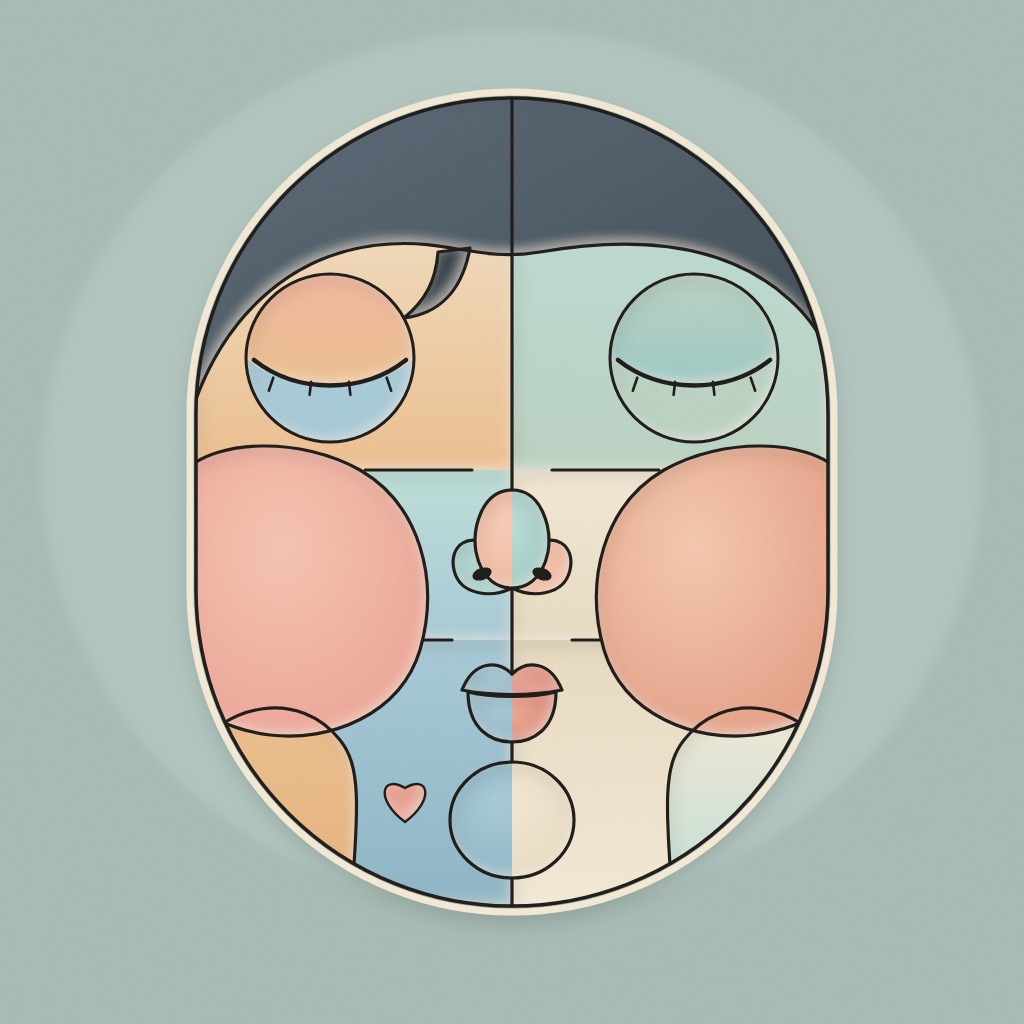
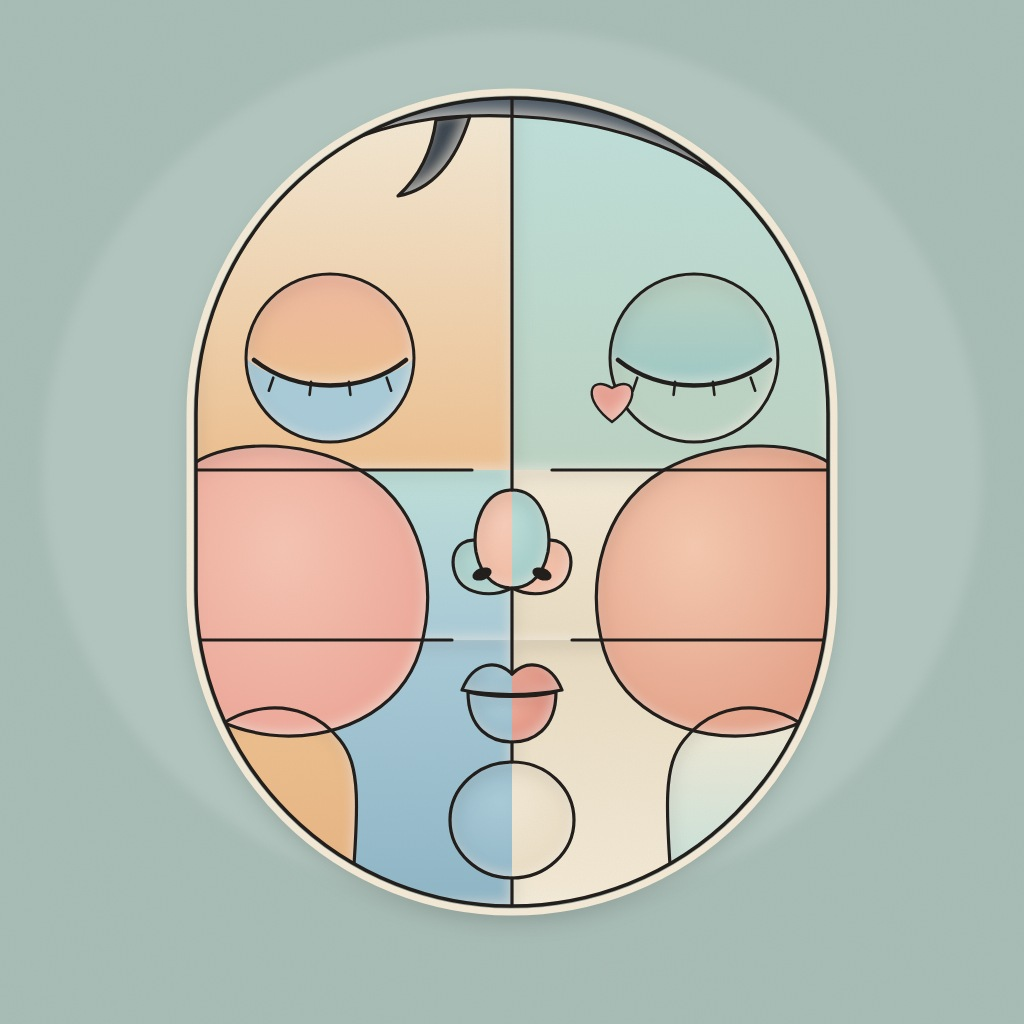
Use the first render as Croía's base face
Restore the thin hair line, curl and heart beside the right eye (the
preferred version), regenerate the ControlNet line-art maps from it, and
add scripts so the maps are always rebuilt from the current base.

Claude-Session: https://claude.ai/code/session_014N3pBDUS1KnyLRQHSab8Cq

diff --git a/croia/src/face.js b/croia/src/face.js
@@ -70,11 +70,11 @@ function svg() {
   s += shape(`M${CX},${FY} H${FX + FW} V470 H${CX} Z`, 'url(#gForeR)');
 
   // HAIR: a dark swoop across the crown, heavier on her right (viewer's left) like the photo
-  const hair = `M${FX - 10},430 C${FX + 20},320 290,250 390,244 C450,240 480,262 540,252 C620,238 720,236 790,300 C815,322 830,350 ${FX + FW + 10},380
+  const hair = `M${FX - 10},330 C${FX + 20},200 330,120 470,116 C600,112 700,150 760,210 C790,240 812,275 ${FX + FW + 10},300
     L${FX + FW + 10},${FY - 10} L${FX - 10},${FY - 10} Z`;
   s += shape(hair, 'url(#gHair)');
   // a little baby curl flicking down onto the forehead
-  const curl = `M470,248 C462,292 438,314 404,318 C426,300 436,280 438,252 Z`;
+  const curl = `M470,116 C455,165 430,190 398,196 C420,176 432,150 436,120 Z`;
   s += shape(curl, P.hair);
 
   // CHEEKS: big round cheek shapes under the eyes (drawn before eyes so lids sit on top)
@@ -138,16 +138,16 @@ function svg() {
 
   // Panel outlines (the lead-line grid of the series)
   s += line(`M${CX},${FY} V${ny - 58}`) + line(`M${CX},${ny + 40} V${my - 16}`) + line(`M${CX},${my + 52} V${cy - 58}`) + line(`M${CX},${cy + 58} V${FY + FH}`);
-  s += line(`M365,470 H${CX - 40}`) + line(`M${CX + 40},470 H659`);
-  s += line(`M423,640 H${CX - 60}`) + line(`M${CX + 60},640 H601`);
+  s += line(`M${FX},470 H${CX - 40}`) + line(`M${CX + 40},470 H${FX + FW}`);
+  s += line(`M${FX},640 H${CX - 60}`) + line(`M${CX + 60},640 H${FX + FW}`);
   s += line(hair.split('L')[0]);
   s += line(curl);
   s += line(cheekL) + line(cheekR);
   s += line(`M${FX - 10},760 C${FX + 30},700 300,690 340,740 C360,765 360,800 350,${FY + FH + 10}`);
   s += line(`M${FX + FW + 10},760 C${FX + FW - 30},700 724,690 684,740 C664,765 664,800 674,${FY + FH + 10}`);
 
-  // A small heart tile, for croí ("heart") — tucked into the lower panel
-  const hx = 405, hy = 800;
+  // A small heart tile, for croí ("heart") — tucked beside her right eye
+  const hx = 612, hy = 400;
   const heart = `M${hx},${hy + 22} C${hx - 30},${hy} ${hx - 24},${hy - 26} ${hx},${hy - 12} C${hx + 24},${hy - 26} ${hx + 30},${hy} ${hx},${hy + 22} Z`;
   s += shape(heart, P.rose) + line(heart, 2.4);
 

diff --git a/croia/src/render.js b/croia/src/render.js
@@ -1,0 +1,14 @@
+// Render SVG files to PNG at 1024px: node croia/src/render.js a.svg [b.svg ...]
+const { chromium } = require(process.env.PLAYWRIGHT_PATH || 'playwright');
+const fs = require('fs');
+(async () => {
+  const b = await chromium.launch();
+  const p = await b.newPage({ viewport: { width: 1024, height: 1024 } });
+  for (const f of process.argv.slice(2)) {
+    await p.setContent('<body style="margin:0">' + fs.readFileSync(f, 'utf8') + '</body>');
+    await p.screenshot({ path: f.replace(/\.svg$/, '.png') });
+    fs.unlinkSync(f);
+    console.log('wrote', f.replace(/\.svg$/, '.png'));
+  }
+  await b.close();
+})();

diff --git a/croia/src/lineart.py b/croia/src/lineart.py
@@ -1,0 +1,16 @@
+#!/usr/bin/env python3
+"""Make ControlNet line-art maps from images/croia_00.svg (run after src/face.js).
+Writes sd/croia_00_lineart.svg (black on white) and sd/croia_00_lineart_inverted.svg;
+render them to PNG with src/render.js."""
+import os, re
+here = os.path.dirname(os.path.abspath(__file__))
+s = open(os.path.join(here, '..', 'images', 'croia_00.svg')).read()
+s = re.sub(r'<rect width="1024" height="1024" filter="url\(#grain\)"/>', '', s)  # grain layer
+s = re.sub(r'<ellipse cx="512" cy="470"[^>]*/>', '', s)                         # background glow
+s = re.sub(r'\sfilter="url\(#[a-z0-9]+\)"', '', s)
+s = re.sub(r'fill="(?!none|#1e1a18)[^"]*"', 'fill="#ffffff"', s)
+s = s.replace('stroke="#f4ead6"', 'stroke="#ffffff"')
+sd = os.path.join(here, '..', 'sd')
+open(os.path.join(sd, 'croia_00_lineart.svg'), 'w').write(s)
+open(os.path.join(sd, 'croia_00_lineart_inverted.svg'), 'w').write(
+    s.replace('fill="#ffffff"', 'fill="#000000"').replace('#1e1a18', '#ffffff'))

diff --git a/croia/README.md b/croia/README.md
@@ -28,6 +28,9 @@ Pieces are painted procedurally (SVG + filters, rendered by headless Chromium).
 The seed makes each render reproducible.
 
 ```sh
-PLAYWRIGHT_PATH=$(npm root -g)/playwright node croia/src/face.js croia/images/croia_00.jpg
+export PLAYWRIGHT_PATH=$(npm root -g)/playwright
+node croia/src/face.js croia/images/croia_00.jpg          # base face (jpg + svg)
+python3 croia/src/lineart.py && node croia/src/render.js \
+  croia/sd/croia_00_lineart.svg croia/sd/croia_00_lineart_inverted.svg   # ControlNet maps
 PLAYWRIGHT_PATH=$(npm root -g)/playwright node croia/src/paint.js 21 croia/images/croia_21.jpg
 ```
